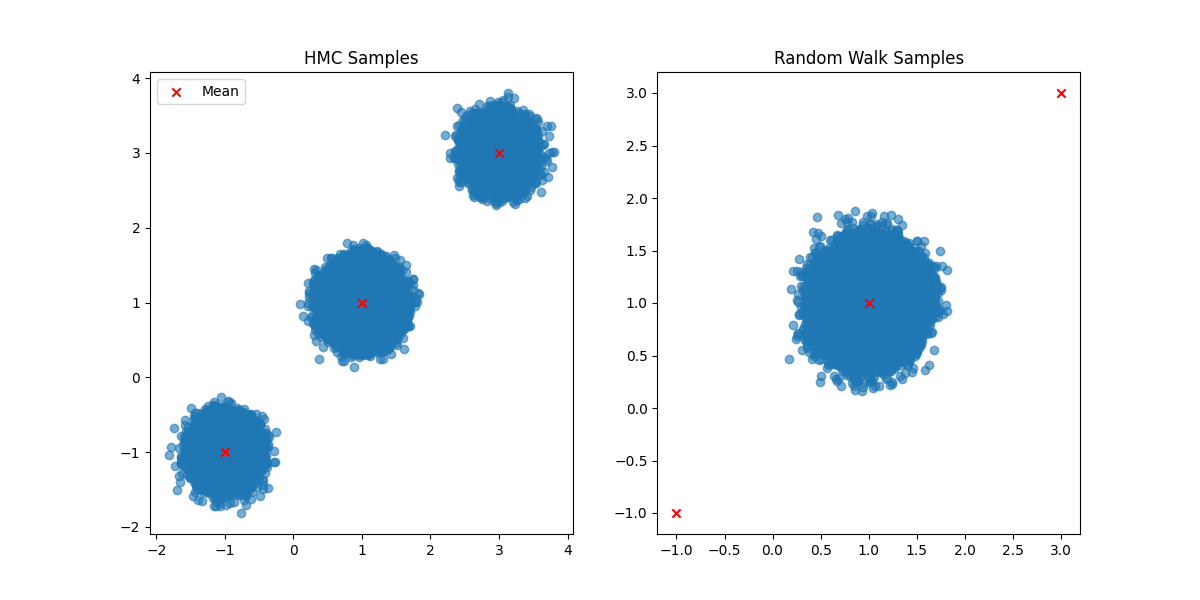
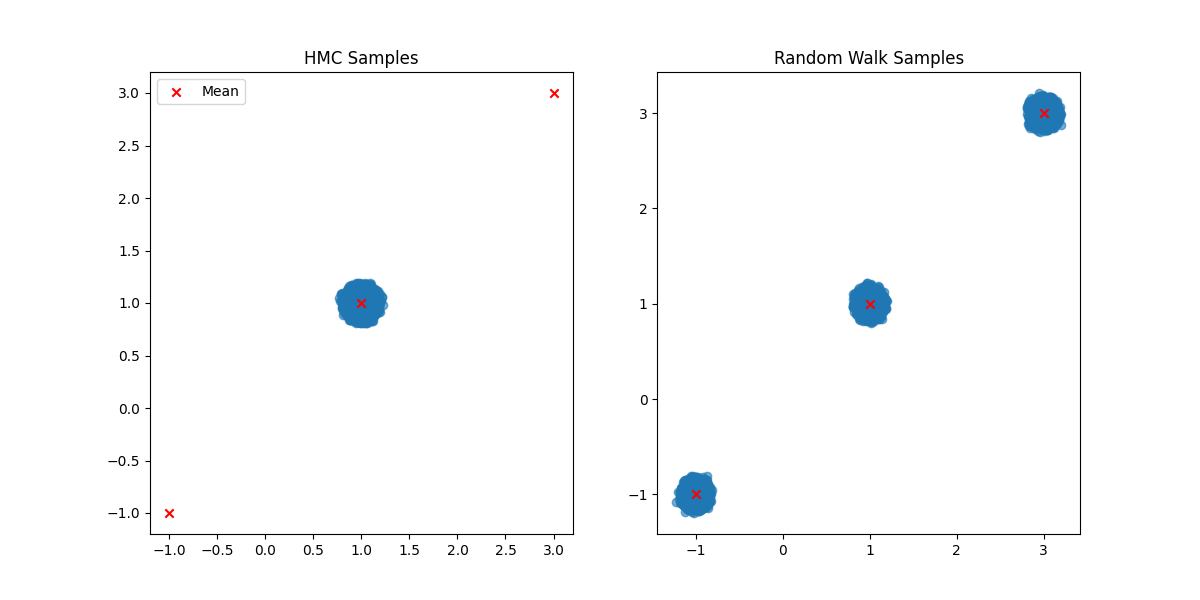
update

diff --git a/jaxhmc/mcmc.py b/jaxhmc/mcmc.py
@@ -37,13 +37,16 @@ class HMCConfig:
     key: jax.Array
 
     fast_tuning_steps: int = struct.field(pytree_node=False, default=1000)
-    slow_tuning_phases: int = struct.field(pytree_node=False, default=8)
-    slow_tuning_initial_length: int = struct.field(pytree_node=False, default=50)
+    slow_tuning_phases: int = struct.field(pytree_node=False, default=6)
+    slow_tuning_initial_length: int = struct.field(pytree_node=False, default=100)
 
 
 def hmc_step(
-    carry: tuple[jax.Array, jax.Array, NesterovState, WelfordState],
-    _,
+    q: jax.Array,
+    key: jax.Array,
+    nesterov_state: NesterovState,
+    welford_state: WelfordState,
+    *,
     pot_vmap: callable,
     pot_grad_vmap: callable,
     steps: int,
@@ -52,7 +55,6 @@ def hmc_step(
     step_size_tuning: bool,
     momentum_tuning: bool,
 ):
-    q, key, nesterov_state, welford_state = carry
     B, d = q.shape
 
     p, key = sample_gaussian_from_precision(
@@ -92,23 +94,36 @@ def hmc_step(
     p_next = jnp.where(b == 1, p_new, p)
     q_next = jnp.where(b == 1, q_new, q)
 
-    nesterov_state = jax.lax.cond(
-        step_size_tuning,
-        lambda: nesterov_dual_averaging(
+    if step_size_tuning:
+        nesterov_state = nesterov_dual_averaging(
             nesterov_state,
             jnp.mean(alpha),
             nesterov_config,
-        ),
-        lambda: nesterov_state,
-    )
+        )
 
-    welford_state = jax.lax.cond(
-        momentum_tuning,
-        lambda: welford_step(welford_state, q_next),
-        lambda: welford_state,
-    )
+    if momentum_tuning:
+        welford_state = welford_step(welford_state, q_next)
 
     return (q_next, key, nesterov_state, welford_state), (p_next, q_next)
+
+
+def hmc_scan_step(
+    carry: tuple[jax.Array, jax.Array, NesterovState, WelfordState],
+    _,
+    **kwargs,
+):
+    q, key, nesterov_state, welford_state = carry
+    return hmc_step(q, key, nesterov_state, welford_state, **kwargs)
+
+
+def hmc_fori_step(
+    _,
+    carry: tuple[jax.Array, jax.Array, NesterovState, WelfordState],
+    **kwargs,
+):
+    q, key, nesterov_state, welford_state = carry
+    out, _ = hmc_step(q, key, nesterov_state, welford_state, **kwargs)
+    return out
 
 
 def run_hmc_chain(
@@ -121,7 +136,7 @@ def run_hmc_chain(
 ):
     return jax.lax.scan(
         f=partial(
-            hmc_step,
+            hmc_scan_step,
             **kwargs,
         ),
         init=(initial_position, key, nesterov_state, welford_state),
@@ -131,23 +146,28 @@ def run_hmc_chain(
 
 def update_welford_state(
     i: int,
-    carry: tuple[WelfordState, jax.Array],
+    carry: tuple[jax.Array, WelfordState, jax.Array],
     initial_chain_length: int,
+    nesterov_state: NesterovState,
     **kwargs,
 ):
-    welford_state, key = carry
-    (_, key, _, new_ws), _ = run_hmc_chain(
-        **kwargs,
-        length=100,  # initial_chain_length * 2**i,
-        welford_state=welford_state,
-        key=key,
-        step_size_tuning=False,
-        momentum_tuning=True,
+    q, welford_state, key = carry
+    new_q, key, _, new_ws = jax.lax.fori_loop(
+        lower=0,
+        upper=initial_chain_length * 2**i,
+        body_fun=partial(
+            hmc_fori_step,
+            step_size_tuning=False,
+            momentum_tuning=True,
+            **kwargs,
+        ),
+        init_val=(q, key, nesterov_state, welford_state),
     )
+
     new_ws = new_ws.replace(
         C=new_ws.L @ new_ws.L.T,
     )
-    return new_ws, key
+    return new_q, new_ws, key
 
 
 def hmc_tune(
@@ -167,8 +187,6 @@ def hmc_tune(
         "steps": steps,
         "max_steps": max_steps,
         "nesterov_config": nesterov_config,
-        "initial_position": initial_position,
-        "nesterov_state": nesterov_state,
     }
 
     welford_state = welford_state.replace(
@@ -181,11 +199,11 @@ def hmc_tune(
         length=config.fast_tuning_steps,
         key=config.key,
         welford_state=welford_state,
+        nesterov_state=nesterov_state,
+        initial_position=initial_position,
         step_size_tuning=True,
         momentum_tuning=False,
     )
-
-    kwargs.update({"nesterov_state": nesterov_state, "initial_position": q})
 
     # We then tune the momentum distribution (slow, step-wise tuning).
     # For this, we follow Stan's implementation and run our chain on
@@ -194,21 +212,32 @@ def hmc_tune(
     # The i-th interval uses the momentum matrix M^{(i - 1)} obtained
     # from the prior interval.
 
-    (new_welford_state, key) = jax.lax.fori_loop(
+    (q, welford_state, key) = jax.lax.fori_loop(
         lower=0,
         upper=config.slow_tuning_phases,
         # carry = p, q, nesterov_state, welford_state
         body_fun=partial(
             update_welford_state,
             initial_chain_length=config.slow_tuning_initial_length,
+            nesterov_state=nesterov_state,
             **kwargs,
         ),
-        init_val=(welford_state, key),
+        init_val=(q, welford_state, key),
     )
 
     # We further refine the step size based on the updated momentum.
+    (q, key, nesterov_state, _), _ = run_hmc_chain(
+        **kwargs,
+        length=config.fast_tuning_steps,
+        key=key,
+        welford_state=welford_state,
+        nesterov_state=nesterov_state,
+        initial_position=q,
+        step_size_tuning=True,
+        momentum_tuning=False,
+    )
 
-    return (q, key, nesterov_state, new_welford_state)
+    return (q, key, nesterov_state, welford_state)
 
 
 @jax.jit
@@ -220,9 +249,13 @@ def hmc(potential: Potential, initial_position: jax.Array, config: HMCConfig):
     # We first compute the Cholesky decomposition of the precision matrix
     precm_L = jnp.linalg.cholesky(config.initial_precm)
 
-    nesterov_state = NesterovState(step_size=config.initial_step_size)
+    nesterov_state = NesterovState(
+        step_size=config.initial_step_size,
+        running_avg=jnp.log(config.initial_step_size),
+    )
     nesterov_config = NesterovConfig(
         mu=jnp.log(10 * config.initial_step_size),
+        gamma=20,
     )
 
     welford_state = WelfordState(
@@ -310,15 +343,12 @@ def random_walk_step(
     new_position = jnp.where(b == 1, new_position, position)
 
     # Update the step size via Nesterov dual averaging only if we are in the tuning phase
-    nesterov_state = jax.lax.cond(
-        tuning,
-        lambda: nesterov_dual_averaging(
+    if tuning:
+        nesterov_state = nesterov_dual_averaging(
             nesterov_state,
             jnp.mean(alpha),
             nesterov_config,
-        ),
-        lambda: nesterov_state,
-    )
+        )
 
     return (new_position, key, nesterov_state), new_position
 
@@ -360,7 +390,7 @@ def random_walk(potential: Potential, initial_position: jax.Array, config: Rando
             pot_vmap=pot_vmap,
             batch_size=batch_size,
             nesterov_config=nesterov_config,
-            tuning=True,
+            tuning=False,
         ),
         init=(position, key, nesterov_state),
         length=config.iterations,

diff --git a/jaxhmc/tuning.py b/jaxhmc/tuning.py
@@ -20,13 +20,13 @@ class NesterovConfig:
     to: float = struct.field(pytree_node=False, default=10)
     kappa: float = struct.field(pytree_node=False, default=0.75)
 
-    log_min_step_size: float = struct.field(pytree_node=False, default_factory=lambda: jnp.log(1e-3))
+    log_min_step_size: float = struct.field(pytree_node=False, default_factory=lambda: jnp.log(1e-2))
     log_max_step_size: float = struct.field(pytree_node=False, default_factory=lambda: jnp.log(1e1))
 
 
 def _step(carry: NesterovState, pa: float, config: NesterovConfig):
     error = carry.error + config.goal - pa
-    log_step = config.mu - error / (jnp.sqrt(carry.t) * config.gamma)
+    log_step = config.mu - config.gamma * error / jnp.sqrt(carry.t)
     log_step = jnp.clip(
         log_step,
         min=config.log_min_step_size,
@@ -36,6 +36,7 @@ def _step(carry: NesterovState, pa: float, config: NesterovConfig):
     eta = (carry.t + config.to) ** (-config.kappa)  # This avoids attributing excessive weight to initial iterations
     running_avg = (1 - eta) * carry.running_avg + eta * log_step
 
+    jax.debug.print("{}", jnp.exp(log_step))
     return NesterovState(
         running_avg=running_avg,
         error=error,
@@ -56,10 +57,9 @@ def nesterov_dual_averaging(
 class WelfordState:
     L: jax.Array
     C: jax.Array
+    mu: jax.Array
 
     size: jax.Array
-
-    mu: jax.Array
 
 
 def cholesky_step(k: int, carry: tuple[jax.Array, jax.Array]):
@@ -76,12 +76,8 @@ def cholesky_step(k: int, carry: tuple[jax.Array, jax.Array]):
     c = (r / L_kk)[:, None]
     s = (v_k / L_kk)[:, None]
 
-    # Update the Cholesky decomposition
-    mask = jnp.tril(jnp.ones((d, d)), k=1)
-    m_kk = mask[None, k, :]
-
-    L = L.at[:, :, k].set(m_kk * (L[:, :, k] + s * v[:, :]) / c + (1 - m_kk) * L[:, :, k])
-    v = m_kk * (c * v - s * L[:, :, k]) + (1 - m_kk) * v
+    L = L.at[:, :, k].set((L[:, :, k] + s * v) / c)
+    v = c * v - s * L[:, :, k]
 
     return L, v
 

diff --git a/examples/gaussian_mixture.py b/examples/gaussian_mixture.py
@@ -19,7 +19,7 @@ dim = initial_position.shape[1]
 # We the run the HMC
 means = jnp.vstack([jnp.ones(dim) + 2, jnp.ones(dim), jnp.ones(dim) - 2])
 
-potential = GaussianMixturePotential(means=means, sigma=0.2)
+potential = GaussianMixturePotential(means=means, sigma=0.05)
 config = HMCConfig(
     initial_step_size=0.2,
     max_path_len=2,
